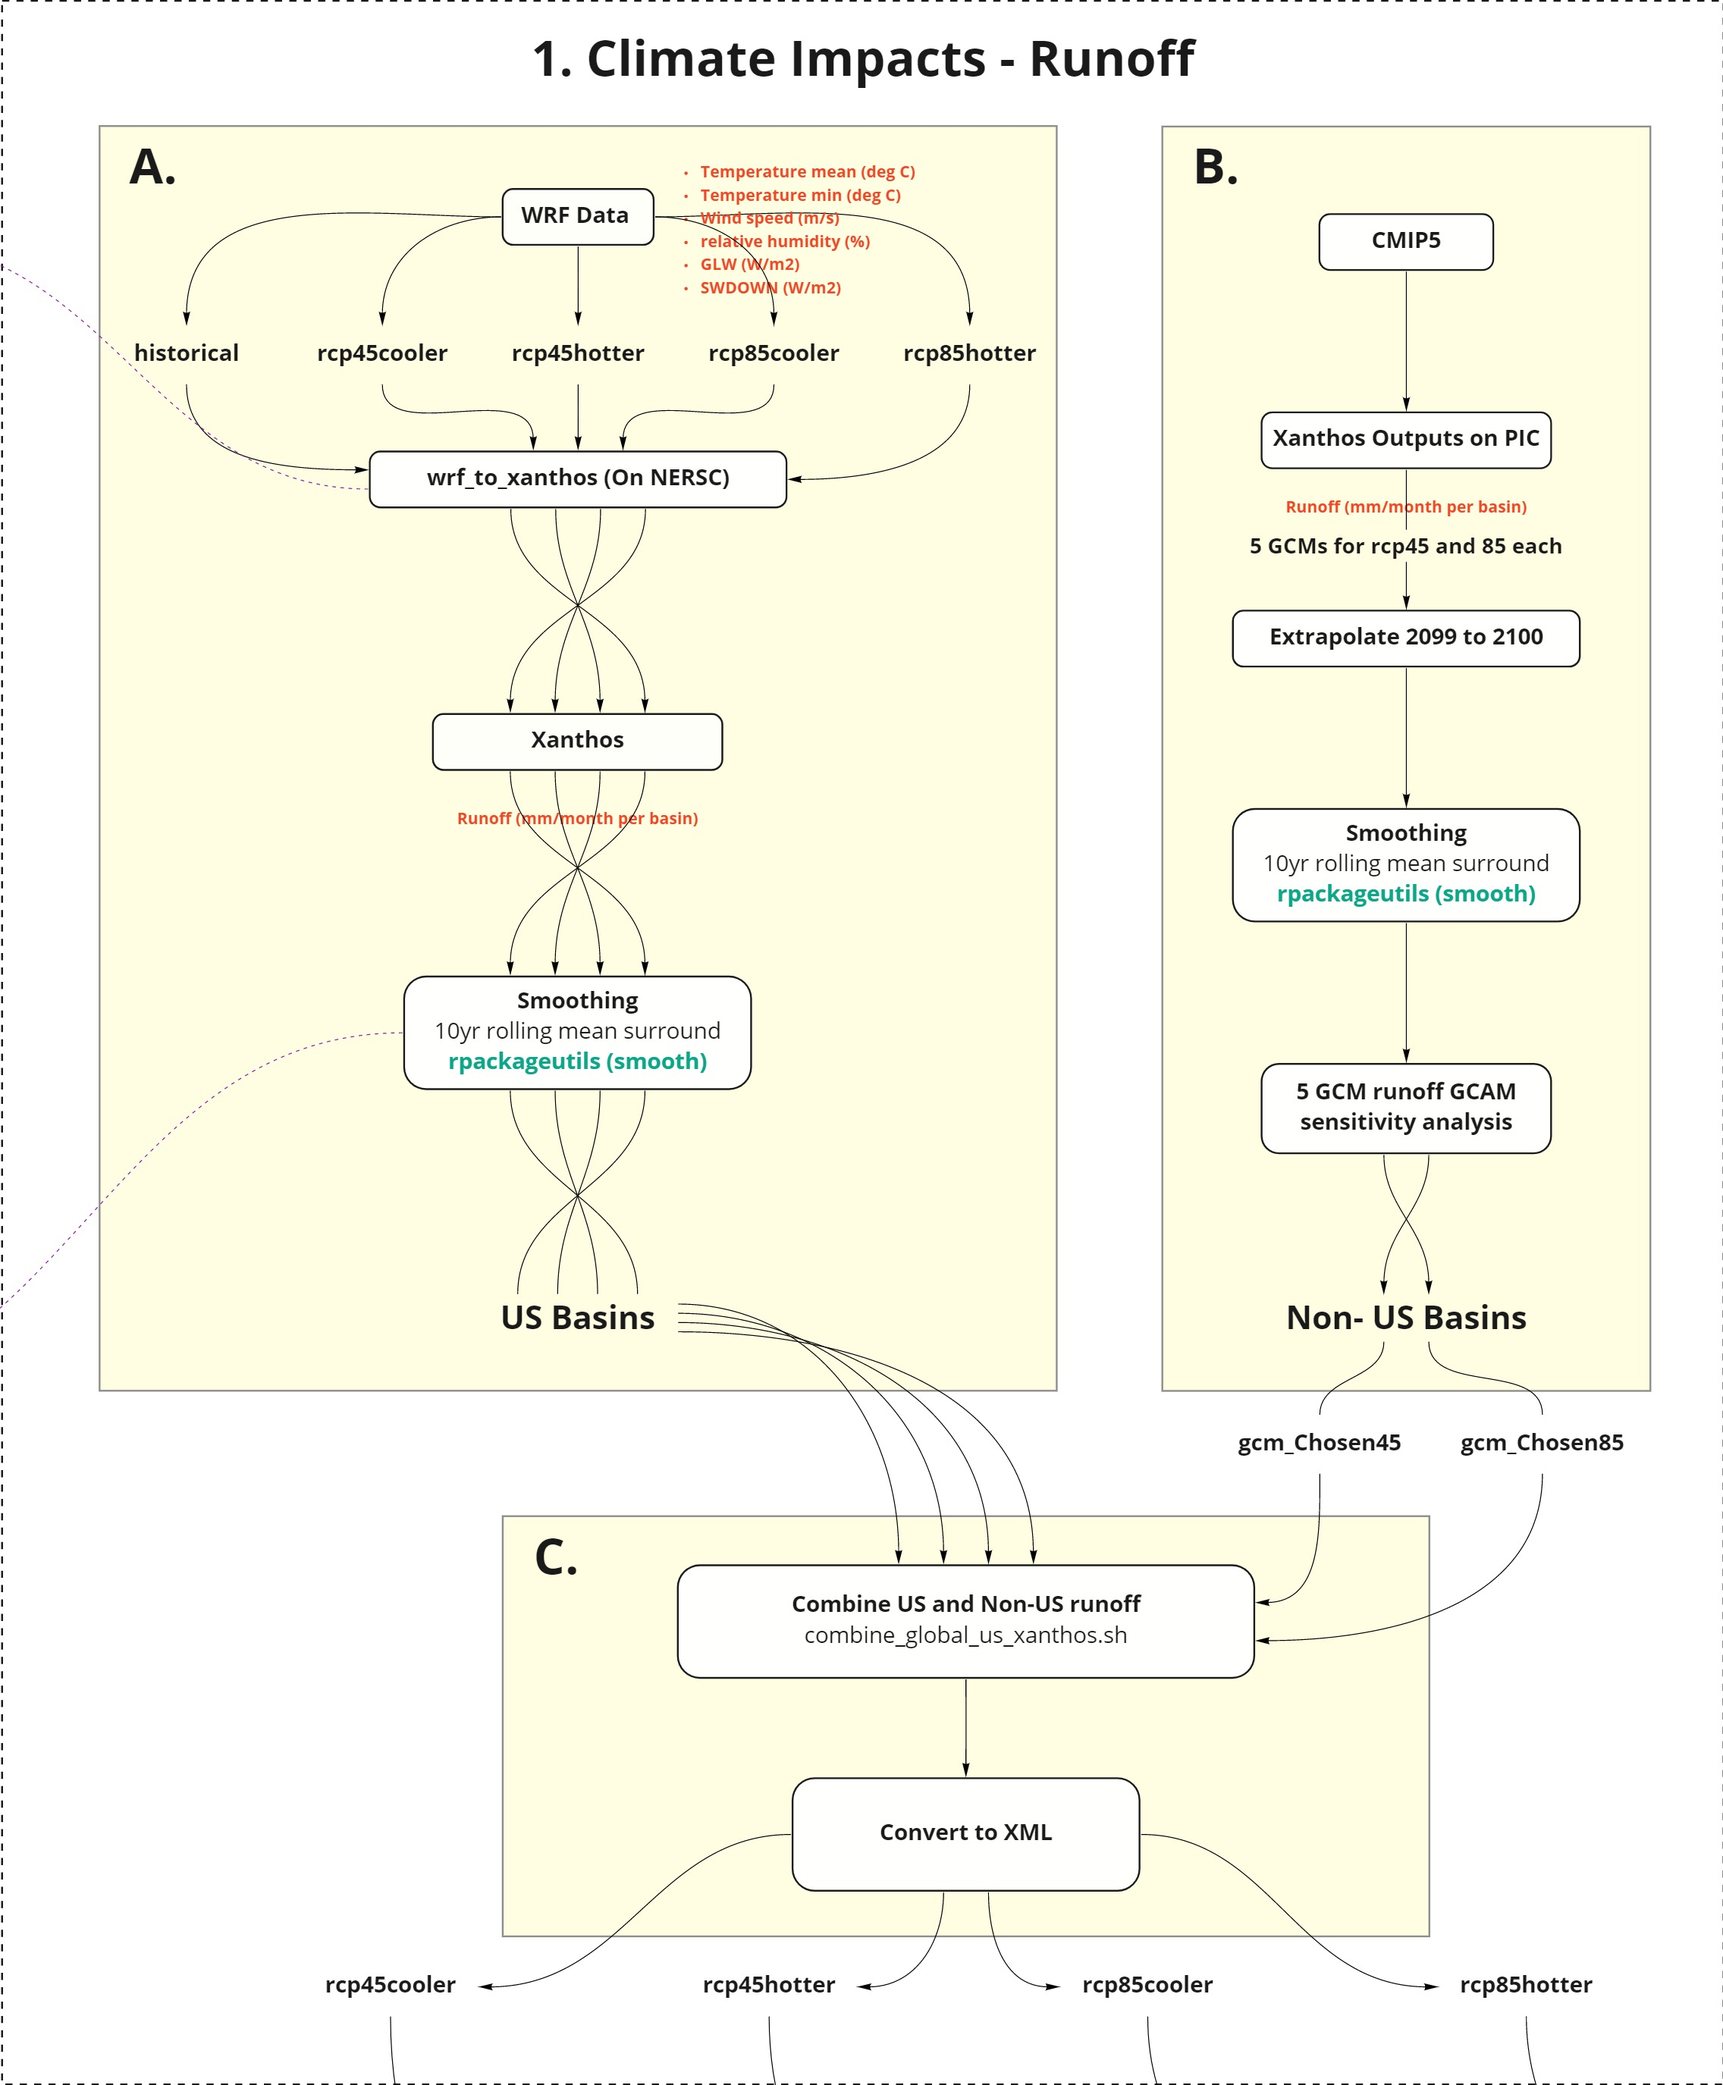
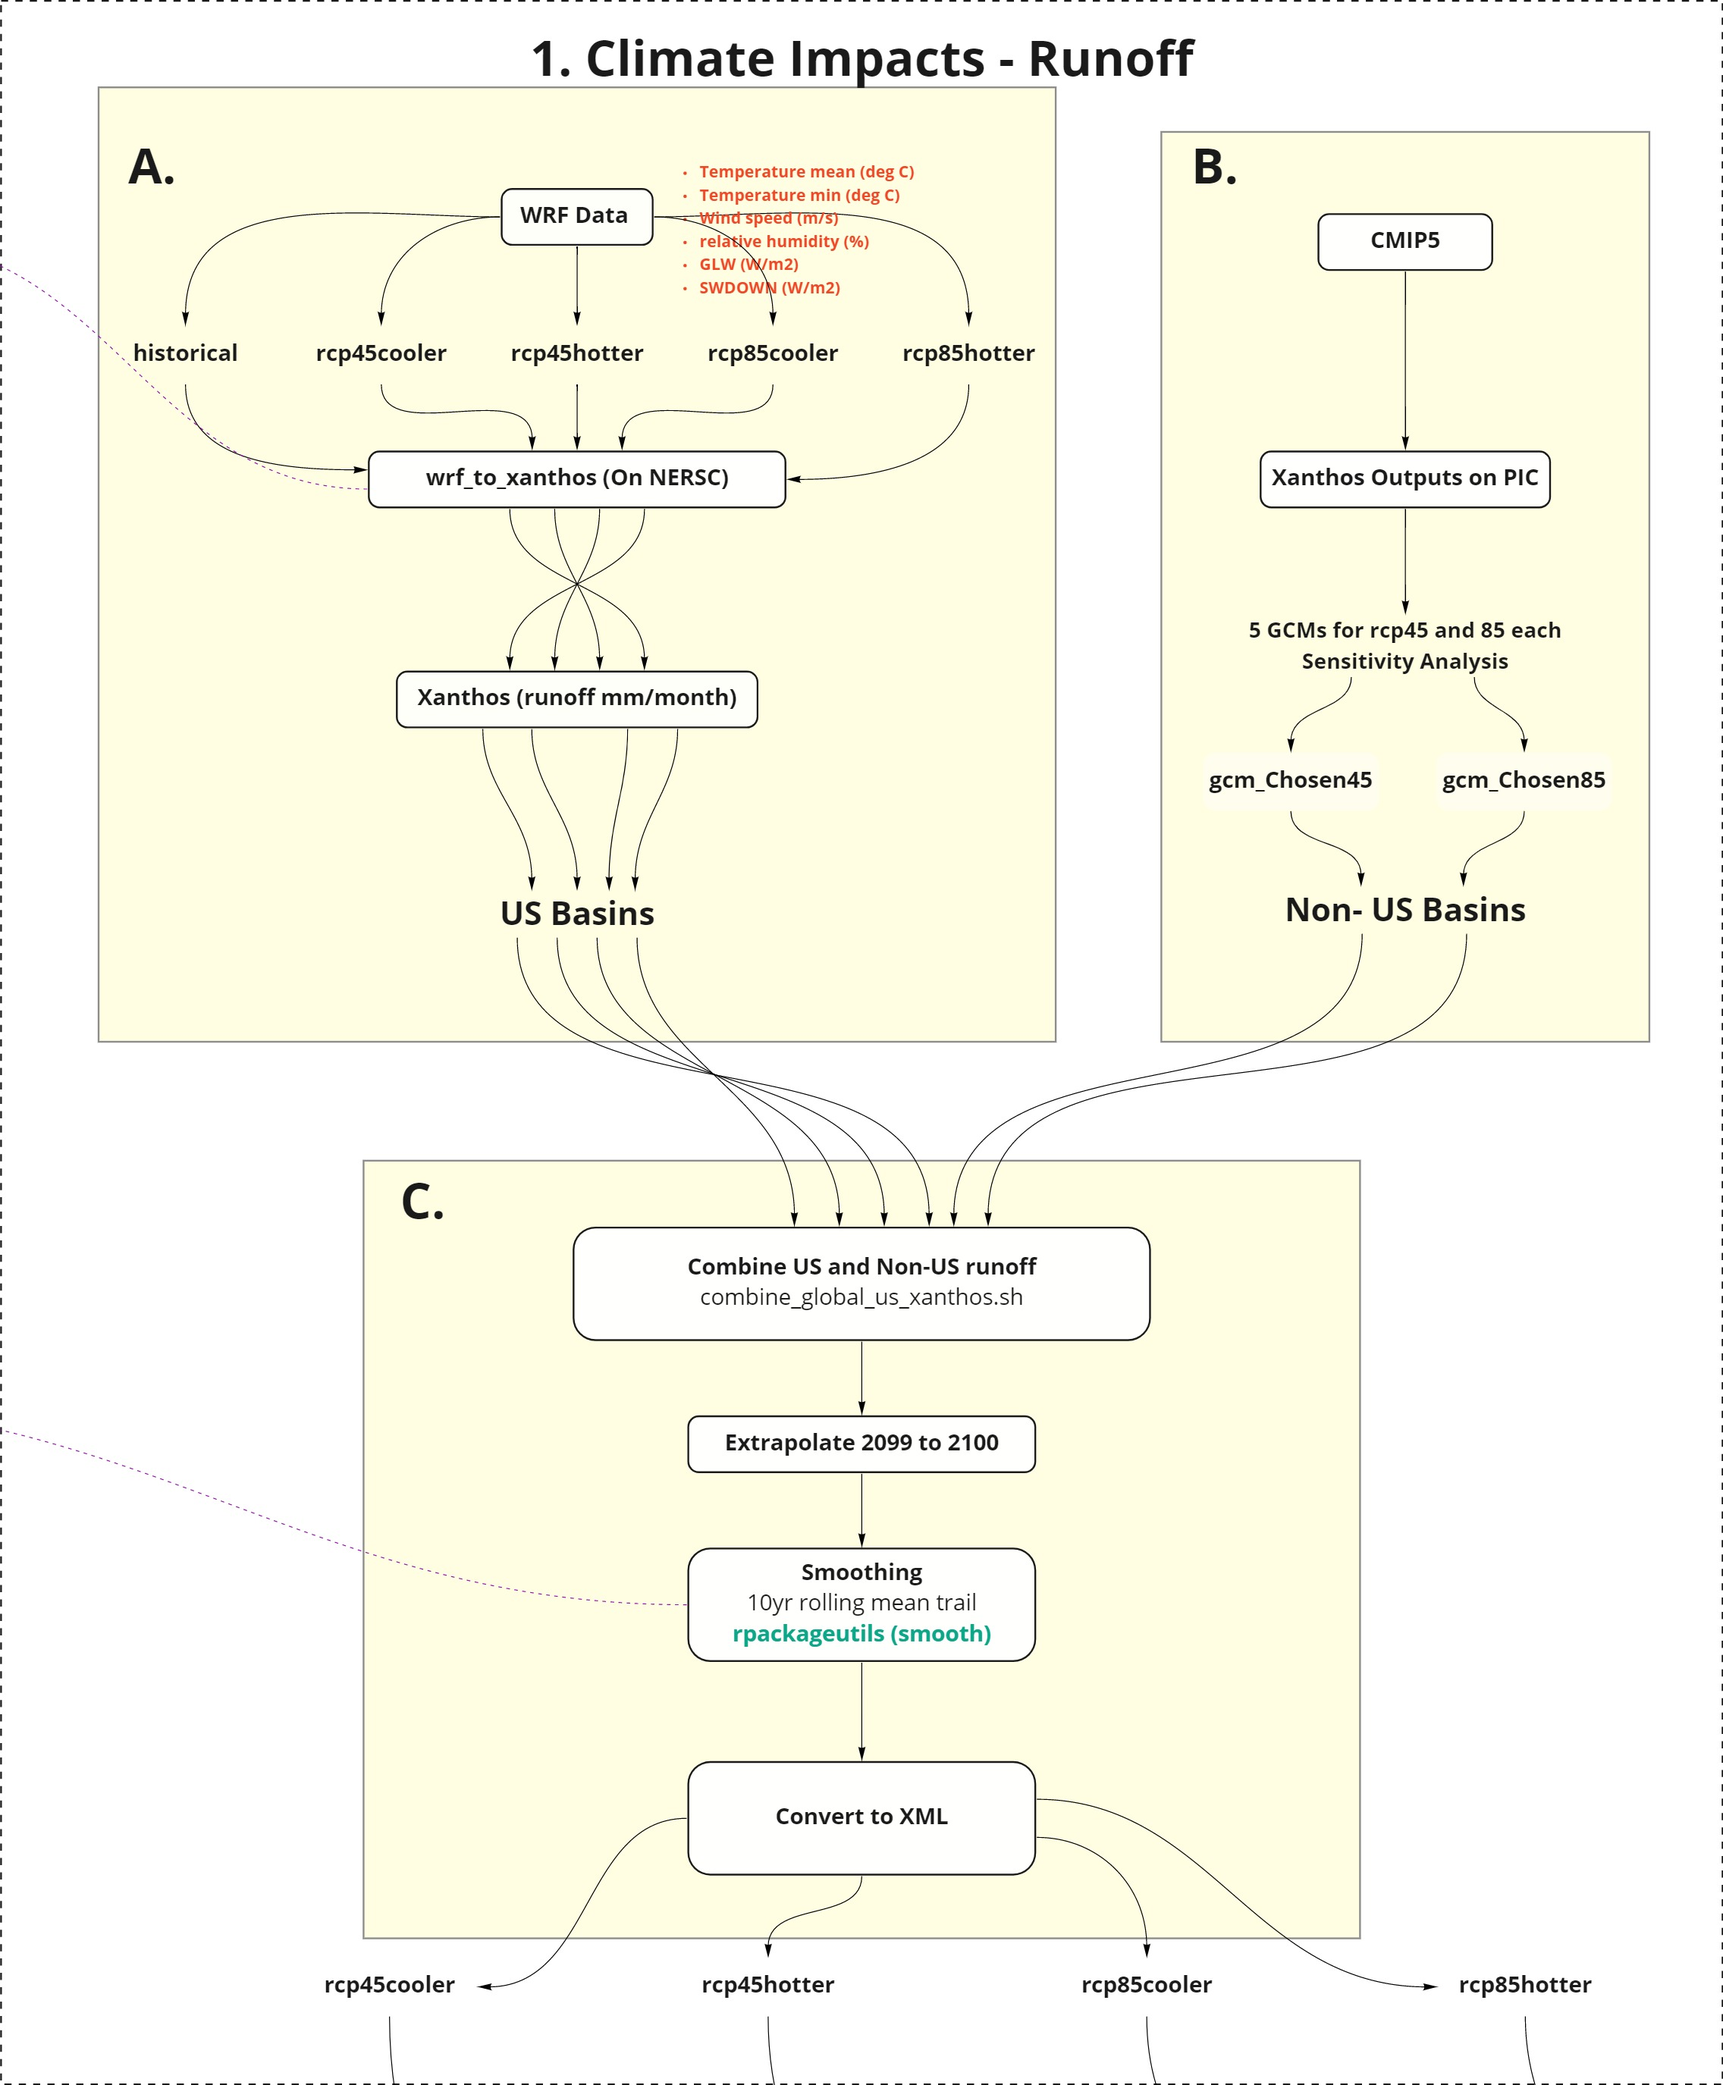
Built site for khanetal2022im3gcamusa: 1.0@215fa78

diff --git a/articles/vignette_metarepo.html b/articles/vignette_metarepo.html
@@ -416,9 +416,9 @@ zenodo link
 </h3>
 <table class="table">
 <colgroup>
-<col width="11%">
-<col width="48%">
-<col width="40%">
+<col width="10%">
+<col width="44%">
+<col width="45%">
 </colgroup>
 <thead><tr class="header">
 <th>Step</th>
@@ -451,7 +451,6 @@ zenodo link
 <li>wrf_to_xanthos_process_ssp585_hot_near.sh</li>
 <li>wrf_to_xanthos_process_ssp585_hot_far.sh</li>
 <li>wrf_to_xanthos_combine_historical_ssp585_hot_near_far.sh</li>
-<li>wrf_to_xanthos_combine_historical_ssp585_hot_near_far_us_global_xanthos.sh</li>
 </ul></td>
 <td><ul>
 <li>(NERSC) /global/cfs/cdirs/m2702/gcamusa/wrf_to_xanthos</li>
@@ -459,8 +458,16 @@ zenodo link
 </li>
 </ul></td>
 </tr>
+<tr class="odd">
+<td>xanthos</td>
+<td>wrf_to_xanthos_combine_historical_ssp585_hot_near_far_us_global_xanthos.sh</td>
+<td><ul>
+<li>(NERSC) /global/cfs/cdirs/m2702/gcamusa/wrf_to_xanthos/xanthos_files/example/output</li>
+</ul></td>
+</tr>
 </tbody>
 </table>
+<p>Workflow 1A results in WRF outputs being processed and run through Xanthos to produce runoff in mm per month for US Basins to be combined with Non-US Basins runoff results from Workflow 1B.</p>
 </div>
 <div id="table-workflow-1b---climate-impacts-runoff-global-basins" class="section level3">
 <h3 class="hasAnchor">
@@ -485,30 +492,79 @@ zenodo link
 </tr>
 </tbody>
 </table>
+<p>Some diagnostics from workflow 1b.</p>
+<ul>
+<li>Sensitivity Analysis across GCMs</li>
+</ul>
 </div>
 <div id="table-workflow-1c---climate-impacts-runoff-combine-us-and-global" class="section level3">
 <h3 class="hasAnchor">
 <a href="#table-workflow-1c---climate-impacts-runoff-combine-us-and-global" class="anchor"></a><strong>Table: Workflow 1C - Climate Impacts Runoff Combine US and Global</strong>
 </h3>
 <table class="table">
+<colgroup>
+<col width="18%">
+<col width="35%">
+<col width="46%">
+</colgroup>
 <thead><tr class="header">
 <th>Step</th>
 <th>Description</th>
-<th>Scripts</th>
+<th>Location</th>
 </tr></thead>
 <tbody>
 <tr class="odd">
-<td>xxx</td>
-<td>xxx</td>
-<td>xxxx</td>
+<td>Workflow 1A Outputs</td>
+<td>Runoff mm per month for US Basins.</td>
+<td><ul>
+<li>/pic/projects/im3/gcamusa/climateimpacts/runoff/outputs_workflow1a</li>
+<li>Copied from (NERSC) /global/cfs/cdirs/m2702/gcamusa/wrf_to_xanthos/xanthos_files/example/output</li>
+</ul></td>
 </tr>
 <tr class="even">
-<td>xxx</td>
-<td>xxx</td>
-<td>xxxx</td>
+<td>Workflow 1B Outputs</td>
+<td>Runoff mm per month for Non-US Basins.</td>
+<td><ul>
+<li>/pic/projects/im3/gcamusa/climateimpacts/runoff/outputs_workflow1b</li>
+<li>Copied from (PIC) /pic/projects/im3/gcamusa/climateimpacts/raw_global_runoff_files</li>
+</ul></td>
+</tr>
+<tr class="odd">
+<td>Combine US and Non-US runoff</td>
+<td><ul>
+<li>xanthos_process_us_global_ssp585hotter_gcmChosen.sh</li>
+<li>xanthos_combine_us_global_ssp585hotter_gcmChosen.R</li>
+</ul></td>
+<td>/pic/projects/im3/gcamusa/climateimpacts/runoff</td>
+</tr>
+<tr class="even">
+<td>Extrapolate 2099 to 2100</td>
+<td><ul>
+<li>xanthos_extrapolate_2099to2100_ssp585hotter_gcmChosen.R</li>
+</ul></td>
+<td>/pic/projects/im3/gcamusa/climateimpacts/runoff</td>
+</tr>
+<tr class="odd">
+<td>Smoothing</td>
+<td><ul>
+<li>xanthos_smooth5trail_2099to2100_ssp585hotter_gcmChosen.R</li>
+</ul></td>
+<td>/pic/projects/im3/gcamusa/climateimpacts/runoff</td>
+</tr>
+<tr class="even">
+<td>Convert to XML</td>
+<td><ul>
+<li>xanthos_convert2xml_ssp585hotter_gcmChosen.R</li>
+</ul></td>
+<td>/pic/projects/im3/gcamusa/climateimpacts/runoff</td>
 </tr>
 </tbody>
 </table>
+<p>Some diagnostics from workflow 1c.</p>
+<ul>
+<li>Compare Global vs WRF Xanthos Runoff for U.S. Basins</li>
+<li>Smoothed Outputs</li>
+</ul>
 </div>
 </div>
 <div id="workflow-2" class="section level2">
@@ -534,6 +590,114 @@ zenodo link
 <div id="workflow-7" class="section level2">
 <h2 class="hasAnchor">
 <a href="#workflow-7" class="anchor"></a>Workflow 7</h2>
+<div id="table-workflow-7---final-gcam-usa-runs" class="section level3">
+<h3 class="hasAnchor">
+<a href="#table-workflow-7---final-gcam-usa-runs" class="anchor"></a><strong>Table: Workflow 7 - Final GCAM-USA Runs</strong>
+</h3>
+<table class="table">
+<colgroup>
+<col width="18%">
+<col width="35%">
+<col width="46%">
+</colgroup>
+<thead><tr class="header">
+<th>Step</th>
+<th>Description</th>
+<th>Location</th>
+</tr></thead>
+<tbody>
+<tr class="odd">
+<td>Workflow 1A Outputs</td>
+<td>Runoff mm per month for US Basins.</td>
+<td><ul>
+<li>/pic/projects/im3/gcamusa/climateimpacts/runoff/outputs_workflow1a</li>
+<li>Copied from (NERSC) /global/cfs/cdirs/m2702/gcamusa/wrf_to_xanthos/xanthos_files/example/output</li>
+</ul></td>
+</tr>
+<tr class="even">
+<td>Workflow 1B Outputs</td>
+<td>Runoff mm per month for Non-US Basins.</td>
+<td><ul>
+<li>/pic/projects/im3/gcamusa/climateimpacts/runoff/outputs_workflow1b</li>
+<li>Copied from (PIC) /pic/projects/im3/gcamusa/climateimpacts/raw_global_runoff_files</li>
+</ul></td>
+</tr>
+<tr class="odd">
+<td>Combine US and Non-US runoff</td>
+<td><ul>
+<li>xanthos_process_us_global_ssp585hotter_gcmChosen.sh</li>
+<li>xanthos_combine_us_global_ssp585hotter_gcmChosen.R</li>
+</ul></td>
+<td>/pic/projects/im3/gcamusa/climateimpacts/runoff</td>
+</tr>
+<tr class="even">
+<td>Extrapolate 2099 to 2100</td>
+<td><ul>
+<li>xanthos_extrapolate_2099to2100_ssp585hotter_gcmChosen.R</li>
+</ul></td>
+<td>/pic/projects/im3/gcamusa/climateimpacts/runoff</td>
+</tr>
+<tr class="odd">
+<td>Smoothing</td>
+<td><ul>
+<li>xanthos_smooth5trail_2099to2100_ssp585hotter_gcmChosen.R</li>
+</ul></td>
+<td>/pic/projects/im3/gcamusa/climateimpacts/runoff</td>
+</tr>
+<tr class="even">
+<td>Convert to XML</td>
+<td><ul>
+<li>xanthos_convert2xml_ssp585hotter_gcmChosen.R</li>
+</ul></td>
+<td>/pic/projects/im3/gcamusa/climateimpacts/runoff</td>
+</tr>
+</tbody>
+</table>
+</div>
+<div id="table-workflow-7b---intermediate-gcam-usa-run-riagnostics" class="section level3">
+<h3 class="hasAnchor">
+<a href="#table-workflow-7b---intermediate-gcam-usa-run-riagnostics" class="anchor"></a><strong>Table: Workflow 7b - Intermediate GCAM-USA Run Riagnostics</strong>
+</h3>
+<table class="table">
+<colgroup>
+<col width="33%">
+<col width="33%">
+<col width="33%">
+</colgroup>
+<thead><tr class="header">
+<th>Step</th>
+<th>Description</th>
+<th>Location</th>
+</tr></thead>
+<tbody>
+<tr class="odd">
+<td>ssp235_noclimate</td>
+<td>ssp235_noclimate</td>
+<td>ssp235_noclimate</td>
+</tr>
+<tr class="even">
+<td>ssp235_climateRunoff_rcp85hotter</td>
+<td>ssp235_climateRunoff_rcp85hotter</td>
+<td>ssp235_climateRunoff_rcp85hotter</td>
+</tr>
+<tr class="odd">
+<td>ssp235_hddcdd_rcp85hotter</td>
+<td>ssp235_hddcdd_rcp85hotter</td>
+<td>ssp235_hddcdd_rcp85hotter</td>
+</tr>
+<tr class="even">
+<td>ssp235_agyields_rcp85hotter</td>
+<td>ssp235_agyields_rcp85hotter</td>
+<td>ssp235_agyields_rcp85hotter</td>
+</tr>
+<tr class="odd">
+<td>ssp235_rcp85hotter</td>
+<td>ssp235_rcp85hotter</td>
+<td>ssp235_rcp85hotter</td>
+</tr>
+</tbody>
+</table>
+</div>
 </div>
 </div>
   </div>
